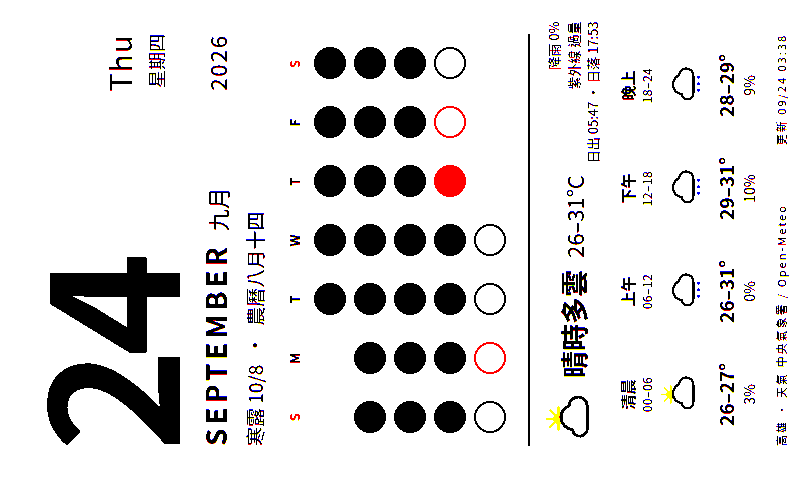
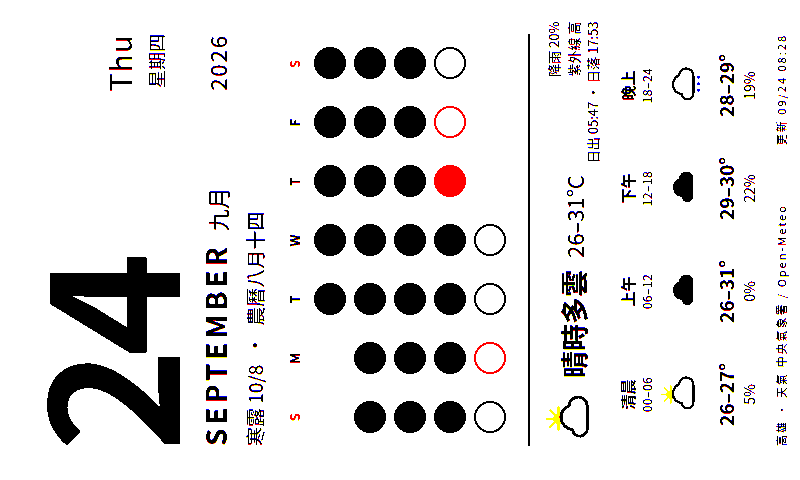
deploy: cf7d1051eb6821bc691ba0ade4beb12cdf9fe0ef

diff --git a/calendar.html b/calendar.html
@@ -55,8 +55,8 @@
   <div class="grid"><div class="h we">S</div><div class="h">M</div><div class="h">T</div><div class="h">W</div><div class="h">T</div><div class="h">F</div><div class="h we">S</div><div class="dot empty"></div><div class="dot empty"></div><div class="dot past" title="1"></div><div class="dot past" title="2"></div><div class="dot past" title="3"></div><div class="dot past" title="4"></div><div class="dot past" title="5"></div><div class="dot past" title="6"></div><div class="dot past" title="7"></div><div class="dot past" title="8"></div><div class="dot past" title="9"></div><div class="dot past" title="10"></div><div class="dot past" title="11"></div><div class="dot past" title="12"></div><div class="dot past" title="13"></div><div class="dot past" title="14"></div><div class="dot past" title="15"></div><div class="dot past" title="16"></div><div class="dot past" title="17"></div><div class="dot past" title="18"></div><div class="dot past" title="19"></div><div class="dot past" title="20"></div><div class="dot past" title="21"></div><div class="dot past" title="22"></div><div class="dot past" title="23"></div><div class="dot now" title="24"></div><div class="dot future hol" title="25"></div><div class="dot future" title="26"></div><div class="dot future" title="27"></div><div class="dot future hol" title="28"></div><div class="dot future" title="29"></div><div class="dot future" title="30"></div></div>
   <div class="wx"><div class="line">
     <div class="wxhead"><svg viewBox="0 0 64 68" xmlns="http://www.w3.org/2000/svg"><g transform="translate(12 -4) scale(.6)"><circle cx="32" cy="32" r="11" fill="#f5c400"/><g stroke="#f5c400" stroke-width="4" stroke-linecap="round"><line x1="32" y1="32" x2="32" y2="8" transform="rotate(0 32 32)"/><line x1="32" y1="32" x2="32" y2="8" transform="rotate(45 32 32)"/><line x1="32" y1="32" x2="32" y2="8" transform="rotate(90 32 32)"/><line x1="32" y1="32" x2="32" y2="8" transform="rotate(135 32 32)"/><line x1="32" y1="32" x2="32" y2="8" transform="rotate(180 32 32)"/><line x1="32" y1="32" x2="32" y2="8" transform="rotate(225 32 32)"/><line x1="32" y1="32" x2="32" y2="8" transform="rotate(270 32 32)"/><line x1="32" y1="32" x2="32" y2="8" transform="rotate(315 32 32)"/></g></g><path d="M20 50h26a11 11 0 0 0 1-22 15 15 0 0 0-29 4 9 9 0 0 0 2 18z" fill="#fff" stroke="#000" stroke-width="3.5" stroke-linejoin="round"/></svg><span class="desc">晴時多雲</span><span class="temp">26–31°C</span>
-      <div class="meta">降雨 0%<br>紫外線 過量<br>日出 05:47 · 日落 17:53</div></div>
-    <div class="slots"><div class="slot"><div class="n">清晨</div><div class="hrs">00–06</div><svg viewBox="0 0 64 68" xmlns="http://www.w3.org/2000/svg"><g transform="translate(12 -4) scale(.6)"><circle cx="32" cy="32" r="11" fill="#f5c400"/><g stroke="#f5c400" stroke-width="4" stroke-linecap="round"><line x1="32" y1="32" x2="32" y2="8" transform="rotate(0 32 32)"/><line x1="32" y1="32" x2="32" y2="8" transform="rotate(45 32 32)"/><line x1="32" y1="32" x2="32" y2="8" transform="rotate(90 32 32)"/><line x1="32" y1="32" x2="32" y2="8" transform="rotate(135 32 32)"/><line x1="32" y1="32" x2="32" y2="8" transform="rotate(180 32 32)"/><line x1="32" y1="32" x2="32" y2="8" transform="rotate(225 32 32)"/><line x1="32" y1="32" x2="32" y2="8" transform="rotate(270 32 32)"/><line x1="32" y1="32" x2="32" y2="8" transform="rotate(315 32 32)"/></g></g><path d="M20 50h26a11 11 0 0 0 1-22 15 15 0 0 0-29 4 9 9 0 0 0 2 18z" fill="#fff" stroke="#000" stroke-width="3.5" stroke-linejoin="round"/></svg><div class="t">26–27°</div><div class="p dry">3%</div></div><div class="slot"><div class="n">上午</div><div class="hrs">06–12</div><svg viewBox="0 0 64 68" xmlns="http://www.w3.org/2000/svg"><path d="M20 50h26a11 11 0 0 0 1-22 15 15 0 0 0-29 4 9 9 0 0 0 2 18z" fill="#fff" stroke="#000" stroke-width="3.5" stroke-linejoin="round"/><g fill="#0040ff"><circle cx="24" cy="58" r="2.2"/><circle cx="34" cy="58" r="2.2"/><circle cx="44" cy="58" r="2.2"/></g></svg><div class="t">26–31°</div><div class="p dry">0%</div></div><div class="slot"><div class="n">下午</div><div class="hrs">12–18</div><svg viewBox="0 0 64 68" xmlns="http://www.w3.org/2000/svg"><path d="M20 50h26a11 11 0 0 0 1-22 15 15 0 0 0-29 4 9 9 0 0 0 2 18z" fill="#fff" stroke="#000" stroke-width="3.5" stroke-linejoin="round"/><g fill="#0040ff"><circle cx="24" cy="58" r="2.2"/><circle cx="34" cy="58" r="2.2"/><circle cx="44" cy="58" r="2.2"/></g></svg><div class="t">29–31°</div><div class="p dry">10%</div></div><div class="slot"><div class="n">晚上</div><div class="hrs">18–24</div><svg viewBox="0 0 64 68" xmlns="http://www.w3.org/2000/svg"><path d="M20 50h26a11 11 0 0 0 1-22 15 15 0 0 0-29 4 9 9 0 0 0 2 18z" fill="#fff" stroke="#000" stroke-width="3.5" stroke-linejoin="round"/><g fill="#0040ff"><circle cx="24" cy="58" r="2.2"/><circle cx="34" cy="58" r="2.2"/><circle cx="44" cy="58" r="2.2"/></g></svg><div class="t">28–29°</div><div class="p dry">9%</div></div></div>
+      <div class="meta">降雨 20%<br>紫外線 高<br>日出 05:47 · 日落 17:53</div></div>
+    <div class="slots"><div class="slot"><div class="n">清晨</div><div class="hrs">00–06</div><svg viewBox="0 0 64 68" xmlns="http://www.w3.org/2000/svg"><g transform="translate(12 -4) scale(.6)"><circle cx="32" cy="32" r="11" fill="#f5c400"/><g stroke="#f5c400" stroke-width="4" stroke-linecap="round"><line x1="32" y1="32" x2="32" y2="8" transform="rotate(0 32 32)"/><line x1="32" y1="32" x2="32" y2="8" transform="rotate(45 32 32)"/><line x1="32" y1="32" x2="32" y2="8" transform="rotate(90 32 32)"/><line x1="32" y1="32" x2="32" y2="8" transform="rotate(135 32 32)"/><line x1="32" y1="32" x2="32" y2="8" transform="rotate(180 32 32)"/><line x1="32" y1="32" x2="32" y2="8" transform="rotate(225 32 32)"/><line x1="32" y1="32" x2="32" y2="8" transform="rotate(270 32 32)"/><line x1="32" y1="32" x2="32" y2="8" transform="rotate(315 32 32)"/></g></g><path d="M20 50h26a11 11 0 0 0 1-22 15 15 0 0 0-29 4 9 9 0 0 0 2 18z" fill="#fff" stroke="#000" stroke-width="3.5" stroke-linejoin="round"/></svg><div class="t">26–27°</div><div class="p dry">5%</div></div><div class="slot"><div class="n">上午</div><div class="hrs">06–12</div><svg viewBox="0 0 64 68" xmlns="http://www.w3.org/2000/svg"><path d="M20 50h26a11 11 0 0 0 1-22 15 15 0 0 0-29 4 9 9 0 0 0 2 18z" fill="#000"/></svg><div class="t">26–31°</div><div class="p dry">0%</div></div><div class="slot"><div class="n">下午</div><div class="hrs">12–18</div><svg viewBox="0 0 64 68" xmlns="http://www.w3.org/2000/svg"><path d="M20 50h26a11 11 0 0 0 1-22 15 15 0 0 0-29 4 9 9 0 0 0 2 18z" fill="#000"/></svg><div class="t">29–30°</div><div class="p dry">22%</div></div><div class="slot"><div class="n">晚上</div><div class="hrs">18–24</div><svg viewBox="0 0 64 68" xmlns="http://www.w3.org/2000/svg"><path d="M20 50h26a11 11 0 0 0 1-22 15 15 0 0 0-29 4 9 9 0 0 0 2 18z" fill="#fff" stroke="#000" stroke-width="3.5" stroke-linejoin="round"/><g fill="#0040ff"><circle cx="24" cy="58" r="2.2"/><circle cx="34" cy="58" r="2.2"/><circle cx="44" cy="58" r="2.2"/></g></svg><div class="t">28–29°</div><div class="p dry">19%</div></div></div>
   </div></div>
-  <div class="foot"><span>高雄 · 天氣 中央氣象署 / Open-Meteo</span><span>更新 09/24 03:38</span></div>
+  <div class="foot"><span>高雄 · 天氣 中央氣象署 / Open-Meteo</span><span>更新 09/24 08:28</span></div>
 </div></body></html>
